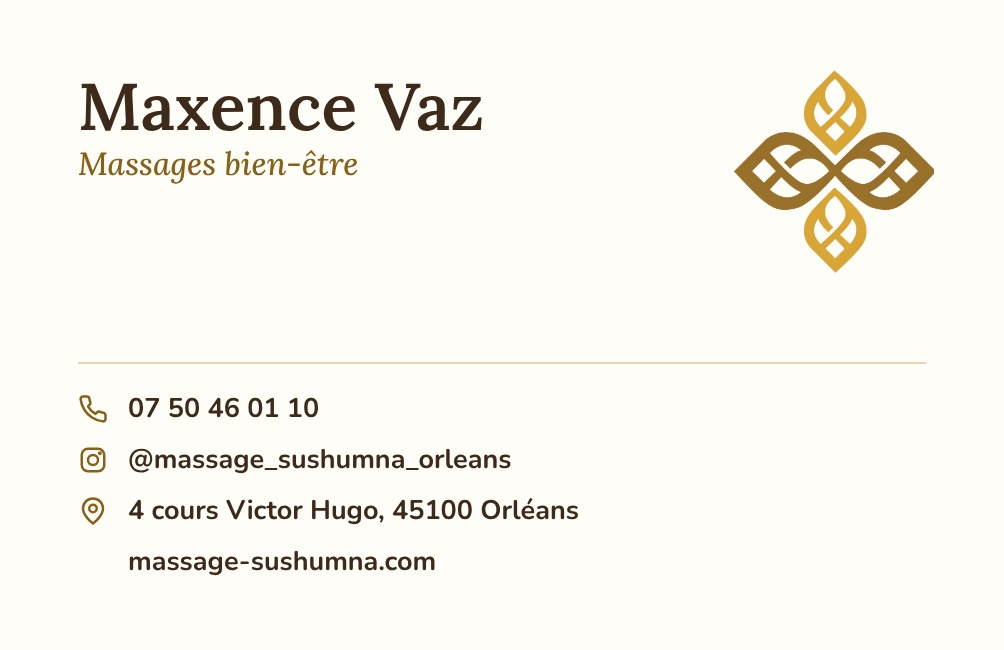
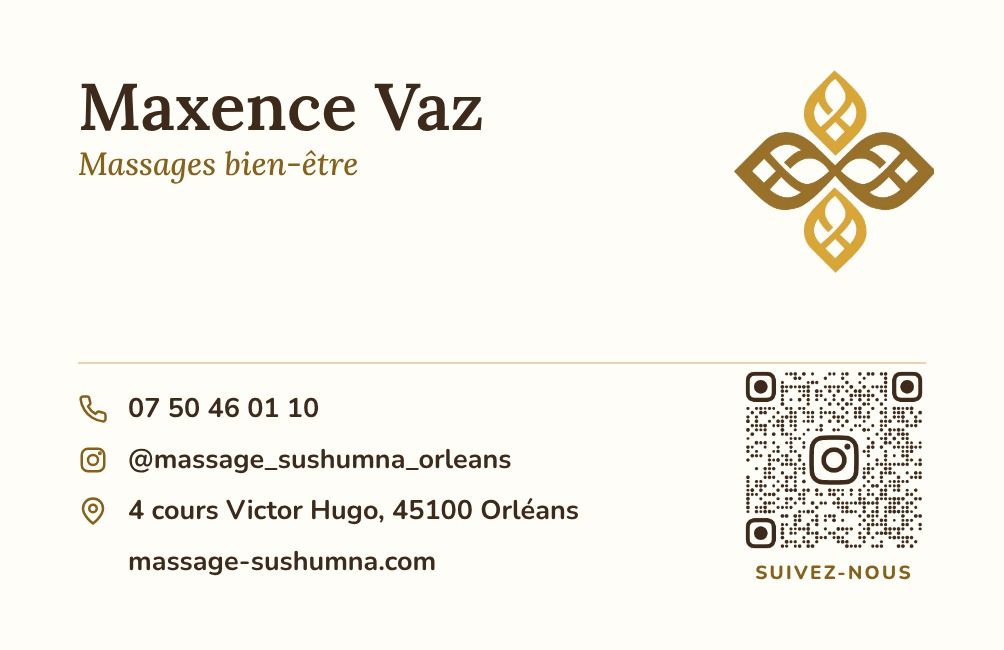
Carte de visite et carte cadeau : QR code Instagram
Claude-Session: https://claude.ai/code/session_01FhKW6d7NffjTyYvYf6zG3G

Changed region(s): [[0.741, 0.5538, 0.9263, 0.8923]]

diff --git a/graphisme/generer.js b/graphisme/generer.js
@@ -142,7 +142,10 @@ PAGES.push({
 .contacts div{display:flex;align-items:center;gap:20px}
 .contacts .ico{width:30px;height:30px}
 .marque{position:absolute;right:70px;top:70px;width:200px;opacity:1}
-.bas{border-top:2px solid var(--bordure);padding-top:26px}`,
+.bas{border-top:2px solid var(--bordure);padding-top:26px;padding-right:250px}
+.qr{position:absolute;right:78px;bottom:64px;width:184px;display:flex;flex-direction:column;align-items:center;gap:8px}
+.qr img{width:184px;height:auto}
+.qr span{font-size:19px;font-weight:800;letter-spacing:.12em;text-transform:uppercase;color:var(--or-texte)}`,
     body: `<img class="marque" src="../assets/embleme-hd.png" alt="">
 <div class="haut">
   <p class="nom">Maxence Vaz</p>
@@ -153,6 +156,10 @@ PAGES.push({
   <div>${ico('instagram')}<span>${CONTACT.insta}</span></div>
   <div>${ico('lieu')}<span>${CONTACT.adresse}</span></div>
   <div><span style="width:30px"></span><span>${CONTACT.site}</span></div>
+</div>
+<div class="qr">
+  <img src="../assets/qr-instagram.png" alt="QR code Instagram">
+  <span>Suivez-nous</span>
 </div>` }),
 });
 
@@ -163,12 +170,15 @@ PAGES.push({
     css: `.page{flex-direction:row;justify-content:flex-start;align-items:stretch;text-align:left;background:var(--creme)}
 .gauche{width:34%;background:#e8cb91 url("../../images/carte-fond.jpg") bottom / 100% auto no-repeat;display:flex;flex-direction:column;justify-content:space-between;align-items:center;padding:40px 26px}
 .gauche img{width:250px;height:auto}
+.qr{background:var(--creme);border-radius:14px;padding:10px;box-shadow:0 6px 16px rgba(61,42,27,.18)}
+.qr img{width:124px;height:124px}
 .tel{font-family:var(--script);font-size:50px;color:var(--brun);line-height:1}
 .droite{width:66%;display:flex;flex-direction:column;justify-content:space-between;padding:38px 48px;text-align:center}
 .droite h1{font-family:var(--script);font-weight:400;font-size:88px;line-height:1;margin:0;color:#111}
 .ligne{font-family:var(--script);font-size:38px;color:#111;margin:0;padding-bottom:4px;border-bottom:3px solid #222;line-height:1.3;text-align:left}`,
     body: `<div class="gauche">
   <img src="../assets/logo-hd.png" alt="Sushumna">
+  <div class="qr"><img src="../assets/qr-instagram.png" alt="QR code Instagram"></div>
   <span class="tel">${CONTACT.tel}</span>
 </div>
 <div class="droite">

diff --git a/graphisme/sources/05-carte-visite-verso.html b/graphisme/sources/05-carte-visite-verso.html
@@ -27,7 +27,10 @@ body{width:var(--w);height:var(--h);overflow:hidden;background:var(--creme);colo
 .contacts div{display:flex;align-items:center;gap:20px}
 .contacts .ico{width:30px;height:30px}
 .marque{position:absolute;right:70px;top:70px;width:200px;opacity:1}
-.bas{border-top:2px solid var(--bordure);padding-top:26px}</style>
+.bas{border-top:2px solid var(--bordure);padding-top:26px;padding-right:250px}
+.qr{position:absolute;right:78px;bottom:64px;width:184px;display:flex;flex-direction:column;align-items:center;gap:8px}
+.qr img{width:184px;height:auto}
+.qr span{font-size:19px;font-weight:800;letter-spacing:.12em;text-transform:uppercase;color:var(--or-texte)}</style>
 </head>
 <body style="--w:1004px;--h:650px">
 <svg width="0" height="0" style="position:absolute" aria-hidden="true">
@@ -56,6 +59,10 @@ body{width:var(--w);height:var(--h);overflow:hidden;background:var(--creme);colo
   <div><svg class="ico" aria-hidden="true"><use href="#instagram"/></svg><span>@massage_sushumna_orleans</span></div>
   <div><svg class="ico" aria-hidden="true"><use href="#lieu"/></svg><span>4 cours Victor Hugo, 45100 Orléans</span></div>
   <div><span style="width:30px"></span><span>massage-sushumna.com</span></div>
+</div>
+<div class="qr">
+  <img src="../assets/qr-instagram.png" alt="QR code Instagram">
+  <span>Suivez-nous</span>
 </div></div>
 </body>
 </html>

diff --git a/graphisme/sources/06-carte-cadeau.html b/graphisme/sources/06-carte-cadeau.html
@@ -22,6 +22,8 @@ body{width:var(--w);height:var(--h);overflow:hidden;background:var(--creme);colo
 .page{flex-direction:row;justify-content:flex-start;align-items:stretch;text-align:left;background:var(--creme)}
 .gauche{width:34%;background:#e8cb91 url("../../images/carte-fond.jpg") bottom / 100% auto no-repeat;display:flex;flex-direction:column;justify-content:space-between;align-items:center;padding:40px 26px}
 .gauche img{width:250px;height:auto}
+.qr{background:var(--creme);border-radius:14px;padding:10px;box-shadow:0 6px 16px rgba(61,42,27,.18)}
+.qr img{width:124px;height:124px}
 .tel{font-family:var(--script);font-size:50px;color:var(--brun);line-height:1}
 .droite{width:66%;display:flex;flex-direction:column;justify-content:space-between;padding:38px 48px;text-align:center}
 .droite h1{font-family:var(--script);font-weight:400;font-size:88px;line-height:1;margin:0;color:#111}
@@ -46,6 +48,7 @@ body{width:var(--w);height:var(--h);overflow:hidden;background:var(--creme);colo
 </svg>
 <div class="page"><div class="gauche">
   <img src="../assets/logo-hd.png" alt="Sushumna">
+  <div class="qr"><img src="../assets/qr-instagram.png" alt="QR code Instagram"></div>
   <span class="tel">07 50 46 01 10</span>
 </div>
 <div class="droite">
